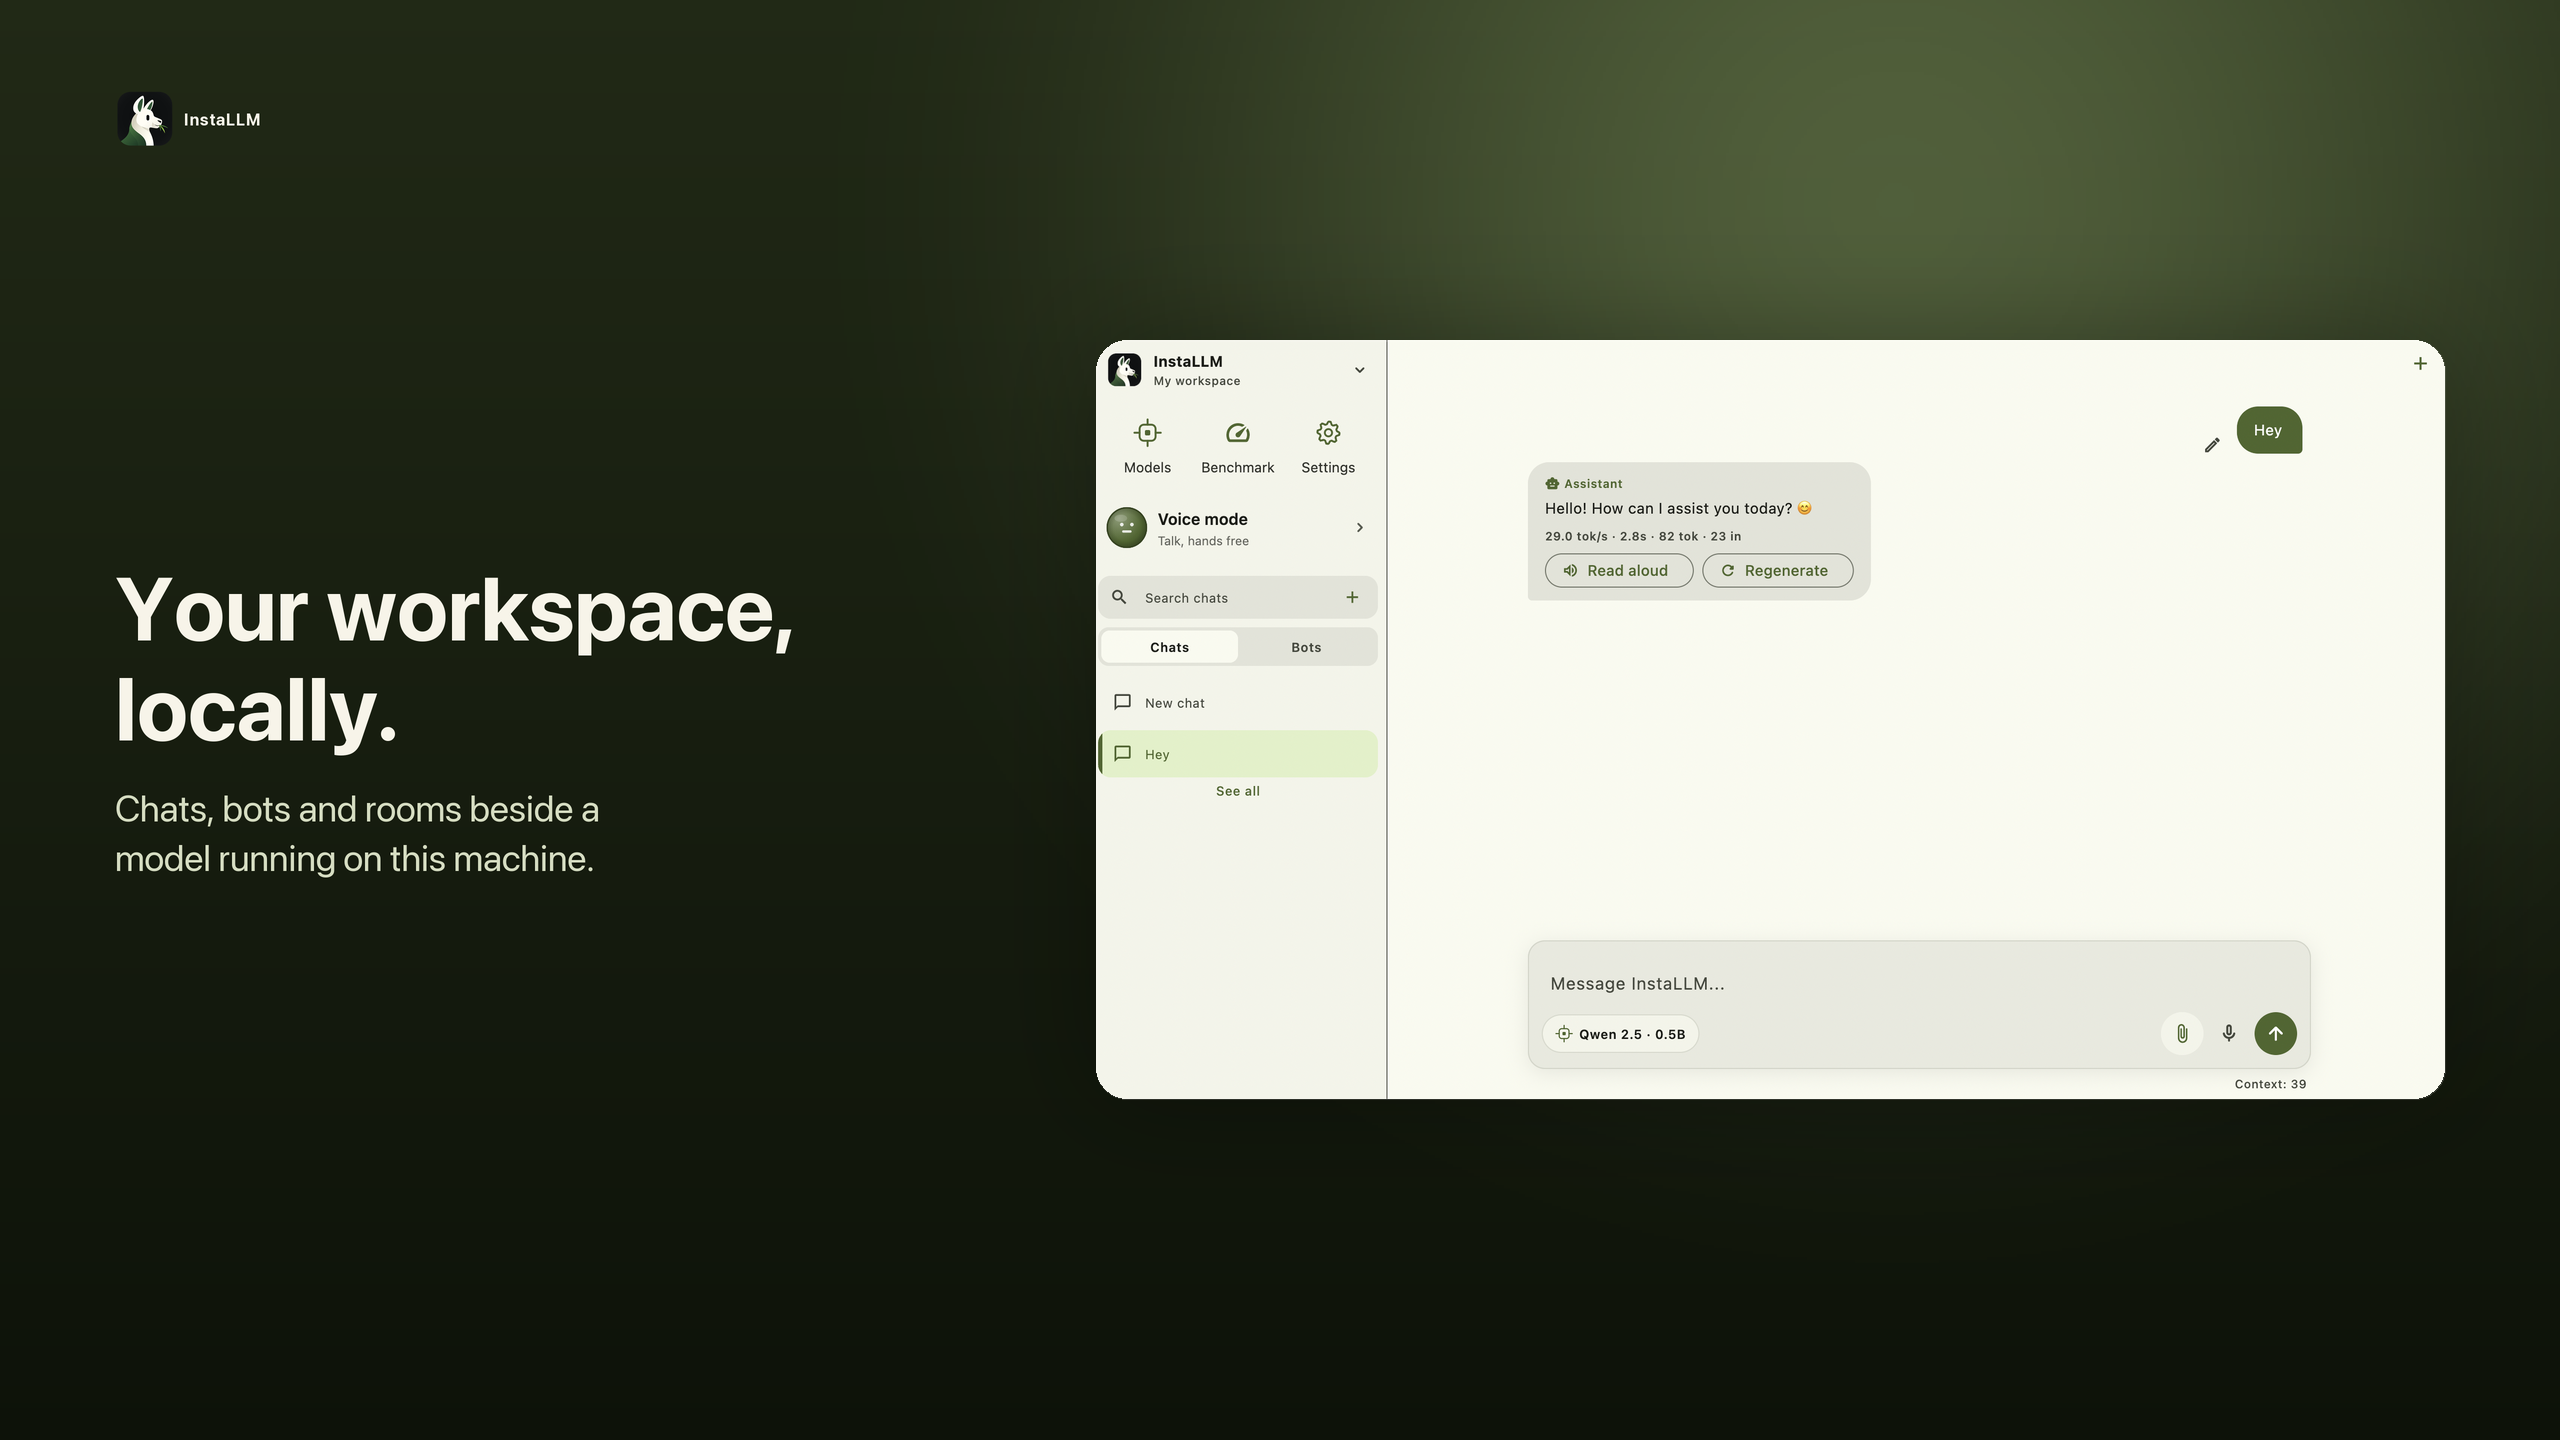
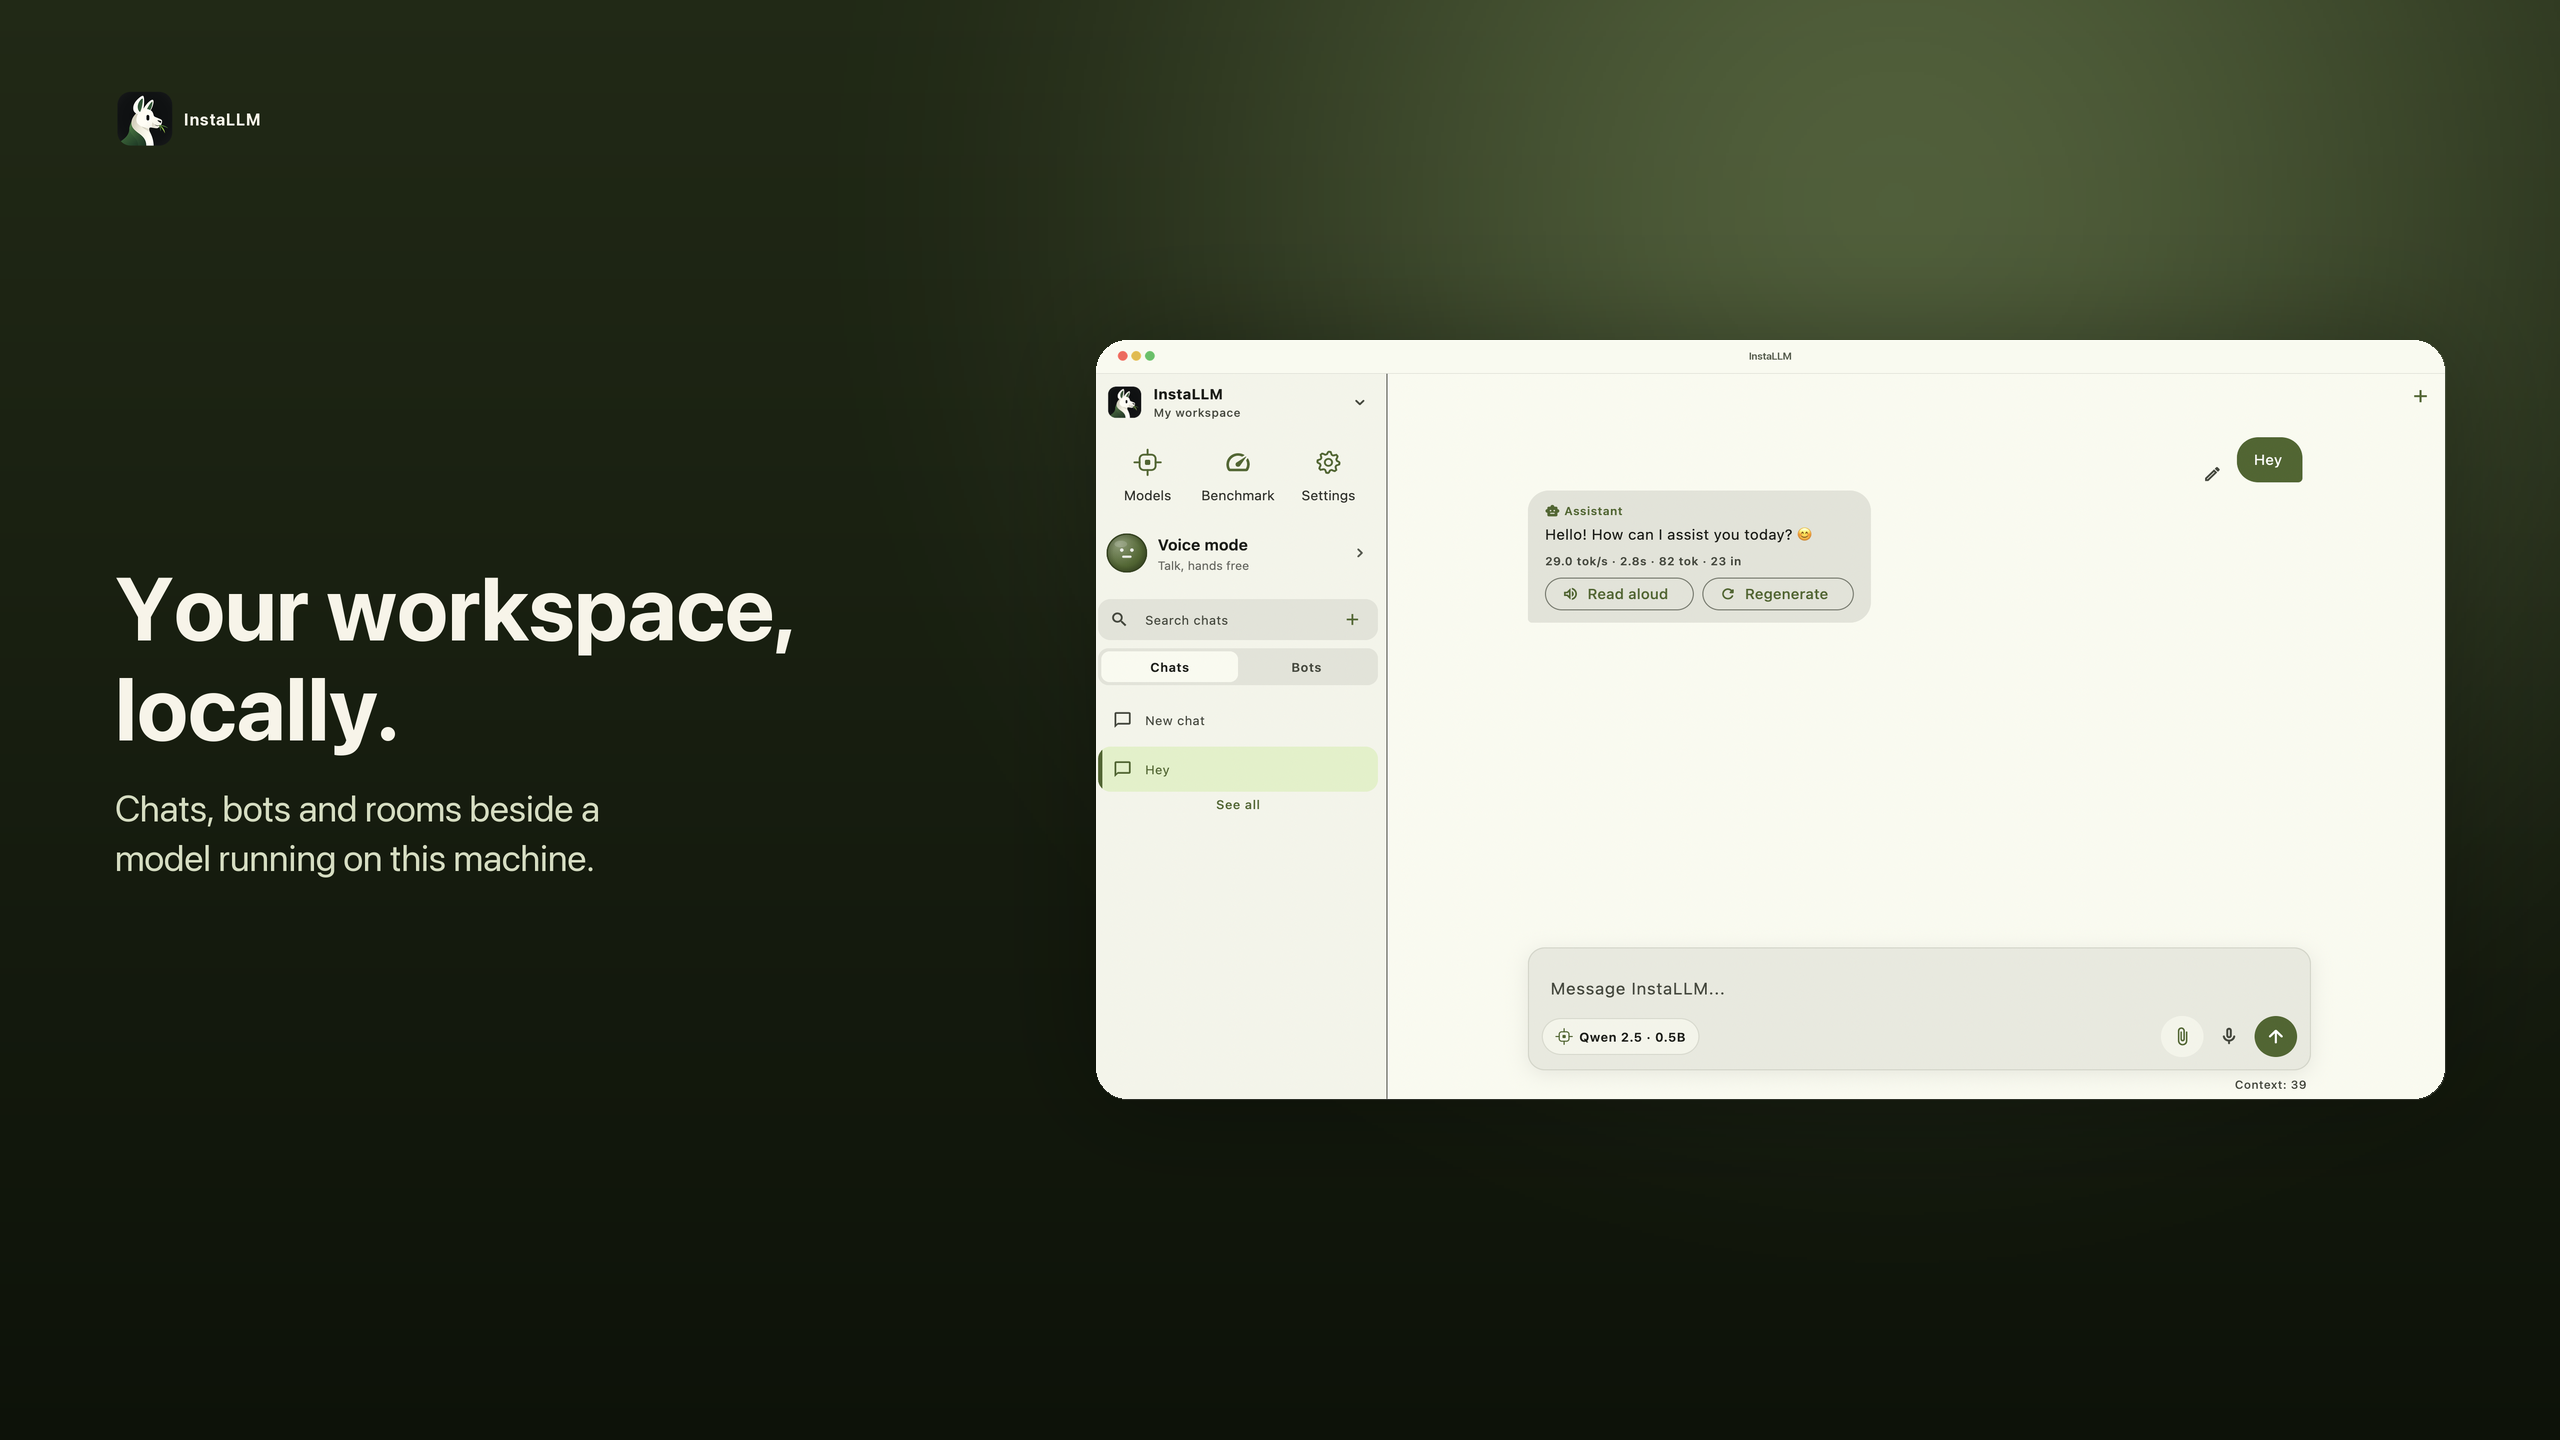
Restore the system bars in the framed store screenshots
The captures were cropped to app content, so every store card started at the
app bar with no status bar or title bar and read as a cut-off screen. The
renderer now stacks an Android status bar (time, signal, wifi, battery) above
the phone and tablet cards and a macOS title bar with traffic lights above the
desktop cards, filled from the capture's own top edge so it continues a drawer
scrim or a sidebar seam instead of sitting on the app as a flat strip.

diff --git a/scripts/generate_store_art.py b/scripts/generate_store_art.py
@@ -17,6 +17,7 @@ The text layer is rendered at 2x and downsampled for crisp type and corners;
 the app capture is composited at 1x afterwards so it is never resampled twice.
 """
 
+import collections
 import math
 from pathlib import Path
 
@@ -159,6 +160,148 @@ def drop_shadow(canvas_size, box, radius, blur, alpha):
     return layer
 
 
+# ---------------------------------------------------------- system chrome
+def modal_top_colour(shot):
+    """The dominant colour at the very top edge of the capture."""
+    w = shot.size[0]
+    counts = collections.Counter(shot.crop((0, 0, w, 8)).getdata())
+    return counts.most_common(1)[0][0]
+
+
+def top_edge_columns(shot):
+    """One colour per column, sampled from the capture's top edge.
+
+    The captures are edge-to-edge with the system bars hidden, so rows 0-3 are
+    flat app background; stretching them upward rebuilds what the bar sits
+    over, including a drawer scrim or a sidebar edge. The wide horizontal
+    median removes any glyph stroke that reaches the first row without
+    softening those real vertical edges.
+    """
+    w = shot.size[0]
+    strip = shot.crop((0, 0, w, 4)).resize((w, 1), Image.BOX)
+    return strip.resize((w, 9), Image.NEAREST).filter(ImageFilter.MedianFilter(9)) \
+        .crop((0, 4, w, 5))
+
+
+def luminance(rgb):
+    r, g, b = rgb
+    return 0.2126 * r + 0.7152 * g + 0.0722 * b
+
+
+def chrome_font(px, weight="Semibold"):
+    """Absolute pixel size, for the 2x chrome layers below."""
+    try:
+        f = ImageFont.truetype(FONT_SF, px)
+        f.set_variation_by_name(weight)
+        return f
+    except Exception:
+        return ImageFont.truetype(FONT_ARIAL_BOLD, px)
+
+
+def android_status_bar(w, h, fg):
+    """Time on the left, signal / wifi / battery on the right, as Android draws
+    them over an edge-to-edge app."""
+    S = 2
+    W, H = w * S, h * S
+    lay = Image.new("RGBA", (W, H), (0, 0, 0, 0))
+    d = ImageDraw.Draw(lay)
+
+    d.text(
+        (H * 0.72, H * 0.52), "9:41", font=chrome_font(round(H * 0.52)), fill=fg,
+        anchor="lm",
+    )
+
+    x = W - H * 0.60
+    # battery: outlined body, filled charge, nub
+    bw, bh = H * 0.84, H * 0.42
+    nub_w, nub_h = H * 0.045, H * 0.15
+    top = H * 0.5 - bh / 2
+    body = (x - nub_w * 2.6 - bw, top, x - nub_w * 2.6, top + bh)
+    d.rounded_rectangle(
+        body, radius=bh * 0.3, outline=fg, width=max(2, round(H * 0.055))
+    )
+    inset = bh * 0.24
+    d.rounded_rectangle(
+        (body[0] + inset, body[1] + inset, body[2] - inset, body[3] - inset),
+        radius=bh * 0.14, fill=fg,
+    )
+    d.rounded_rectangle(
+        (body[2] + nub_w * 0.6, H * 0.5 - nub_h, x, H * 0.5 + nub_h),
+        radius=nub_w, fill=fg,
+    )
+
+    # wifi: three arcs plus the dot, opening upward
+    x = body[0] - H * 0.42
+    wr = H * 0.38
+    cx, cy = x - wr, H * 0.70
+    lw = max(2, round(H * 0.06))
+    for frac in (0.40, 0.71, 1.0):
+        r = wr * frac
+        d.arc((cx - r, cy - r, cx + r, cy + r), 225, 315, fill=fg, width=lw)
+    d.ellipse((cx - lw, cy - lw, cx + lw, cy + lw), fill=fg)
+
+    # signal: four bars of rising height
+    x = cx - wr - H * 0.42
+    bar_w, gap, base = H * 0.115, H * 0.05, H * 0.72
+    for i in range(4):
+        bh_i = H * (0.20 + 0.12 * i)
+        bx = x - 4 * bar_w - 3 * gap + i * (bar_w + gap)
+        d.rounded_rectangle(
+            (bx, base - bh_i, bx + bar_w, base), radius=bar_w * 0.35, fill=fg
+        )
+    return lay.resize((w, h), Image.LANCZOS)
+
+
+def macos_title_bar(w, h, fg):
+    """Traffic lights and the window title, so the capture reads as a window."""
+    S = 2
+    W, H = w * S, h * S
+    lay = Image.new("RGBA", (W, H), (0, 0, 0, 0))
+    d = ImageDraw.Draw(lay)
+
+    r, cy, x = H * 0.135, H * 0.47, H * 0.62
+    for colour in ((236, 106, 94), (224, 187, 82), (106, 191, 105)):
+        d.ellipse((x, cy - r, x + 2 * r, cy + r), fill=colour)
+        x += 2 * r + H * 0.115
+
+    d.text(
+        (W / 2, cy), "InstaLLM", font=chrome_font(round(H * 0.30)),
+        fill=(*fg, 190), anchor="mm",
+    )
+    # hairline so the bar separates from the app body
+    d.rectangle((0, H - S, W, H), fill=(0, 0, 0, 34))
+    return lay.resize((w, h), Image.LANCZOS)
+
+
+CHROME = {"android": android_status_bar, "macos": macos_title_bar}
+
+
+def add_system_chrome(shot, chrome):
+    """Stack the platform bar above the capture.
+
+    The bar takes its fill from the capture's own top edge, so it reads as the
+    app running under the system bar (which is how the app is configured:
+    SystemUiMode.edgeToEdge), not as a strip bolted onto the screenshot.
+    """
+    w = shot.size[0]
+    h = chrome["h"]
+    bg = modal_top_colour(shot)
+    fg = CREAM if luminance(bg) < 140 else INK_TEXT
+    # The status bar sits over the app, so it follows the app's own edge;
+    # a window title bar is chrome, so it keeps one flat colour.
+    if chrome["kind"] == "android":
+        base = top_edge_columns(shot).resize((w, h), Image.NEAREST)
+    else:
+        base = Image.new("RGB", (w, h), bg)
+    bar = Image.alpha_composite(
+        base.convert("RGBA"), CHROME[chrome["kind"]](w, h, fg)
+    )
+    app = Image.new("RGB", (w, shot.size[1] + h))
+    app.paste(bar.convert("RGB"), (0, 0))
+    app.paste(shot, (0, h))
+    return app
+
+
 def build(canvas_size, dark, headline, subtitle, shot_path, layout):
     W, H = canvas_size
     # --- supersampled text layer
@@ -233,6 +376,8 @@ def build(canvas_size, dark, headline, subtitle, shot_path, layout):
     ).convert("RGB")
 
     shot = Image.open(shot_path).convert("RGB")
+    if layout.get("chrome"):
+        shot = add_system_chrome(shot, layout["chrome"])
     cw, ch = box[2] - box[0], box[3] - box[1]
     shot = shot.resize((cw, ch), Image.LANCZOS)
     mask = rounded_mask((cw, ch), radius)
@@ -253,10 +398,11 @@ PHONE = dict(
     headline_y=214, headline_size=80, sub_size=33, sub_gap=26,
     card=(156, 536, 924, 2072), radius=34, shadow_blur=34, shadow_alpha=88,
     glow=(0.24, 0.05, 1.35, 0.34),
+    chrome=dict(kind="android", h=72),
 )
 
 # ------------------------------------------------------------------ landscape
-def landscape(w, h):
+def landscape(w, h, chrome="android"):
     """Text column left, card right, both sized from the canvas proportions."""
     pad = int(round(0.045 * w))
     text_w = int(round(0.355 * w))
@@ -279,6 +425,10 @@ def landscape(w, h):
         radius=int(round(0.012 * w)), shadow_blur=int(round(0.02 * w)),
         shadow_alpha=80,
         glow=(0.74, 0.14, 0.78, 0.42), center_text=True,
+        chrome=dict(
+            kind=chrome,
+            h=48 if chrome == "android" else int(round(0.026 * w)),
+        ),
     )
 
 
@@ -342,7 +492,7 @@ SETS = {
     ),
     "desktop": dict(
         size=(2560, 1440),
-        layout=landscape(2560, 1440),
+        layout=landscape(2560, 1440, chrome="macos"),
         src=SCRIPTS / "desktop",
         panels=[
             ("Your workspace, locally.",

diff --git a/docs/play_store/README.md b/docs/play_store/README.md
@@ -91,8 +91,13 @@ working tree with `scripts/build_android_bundle.sh`:
   two-line headline, a muted subtitle and the capture as a rounded card on an
   alternating deep-green and cream panel; the text layer renders at 2x and is
   downsampled so type and corners stay crisp, and the capture is composited at
-  native scale so it is never resampled twice. The script only needs Pillow and
-  the fonts already on macOS.
+  native scale so it is never resampled twice. Each card also restores the
+  system chrome the captures were cropped to remove: an Android status bar
+  (time, signal, wifi, battery) above the phone and tablet cards, and a macOS
+  title bar with traffic lights above the desktop cards. The bar is filled from
+  the capture's own top edge, so it continues a drawer scrim or a sidebar seam
+  instead of sitting on top of the app as a flat strip. The script only needs
+  Pillow and the fonts already on macOS.
 - Tablet and desktop sets, captured on 17 November 2026 in light theme with the
   solid surface style: `screens/tablet_7inch/` is 2048x1152 (16:9) from the
   TrebleDroid Android 13 tablet at 2048x1200, cropped by 48 px of status bar and
